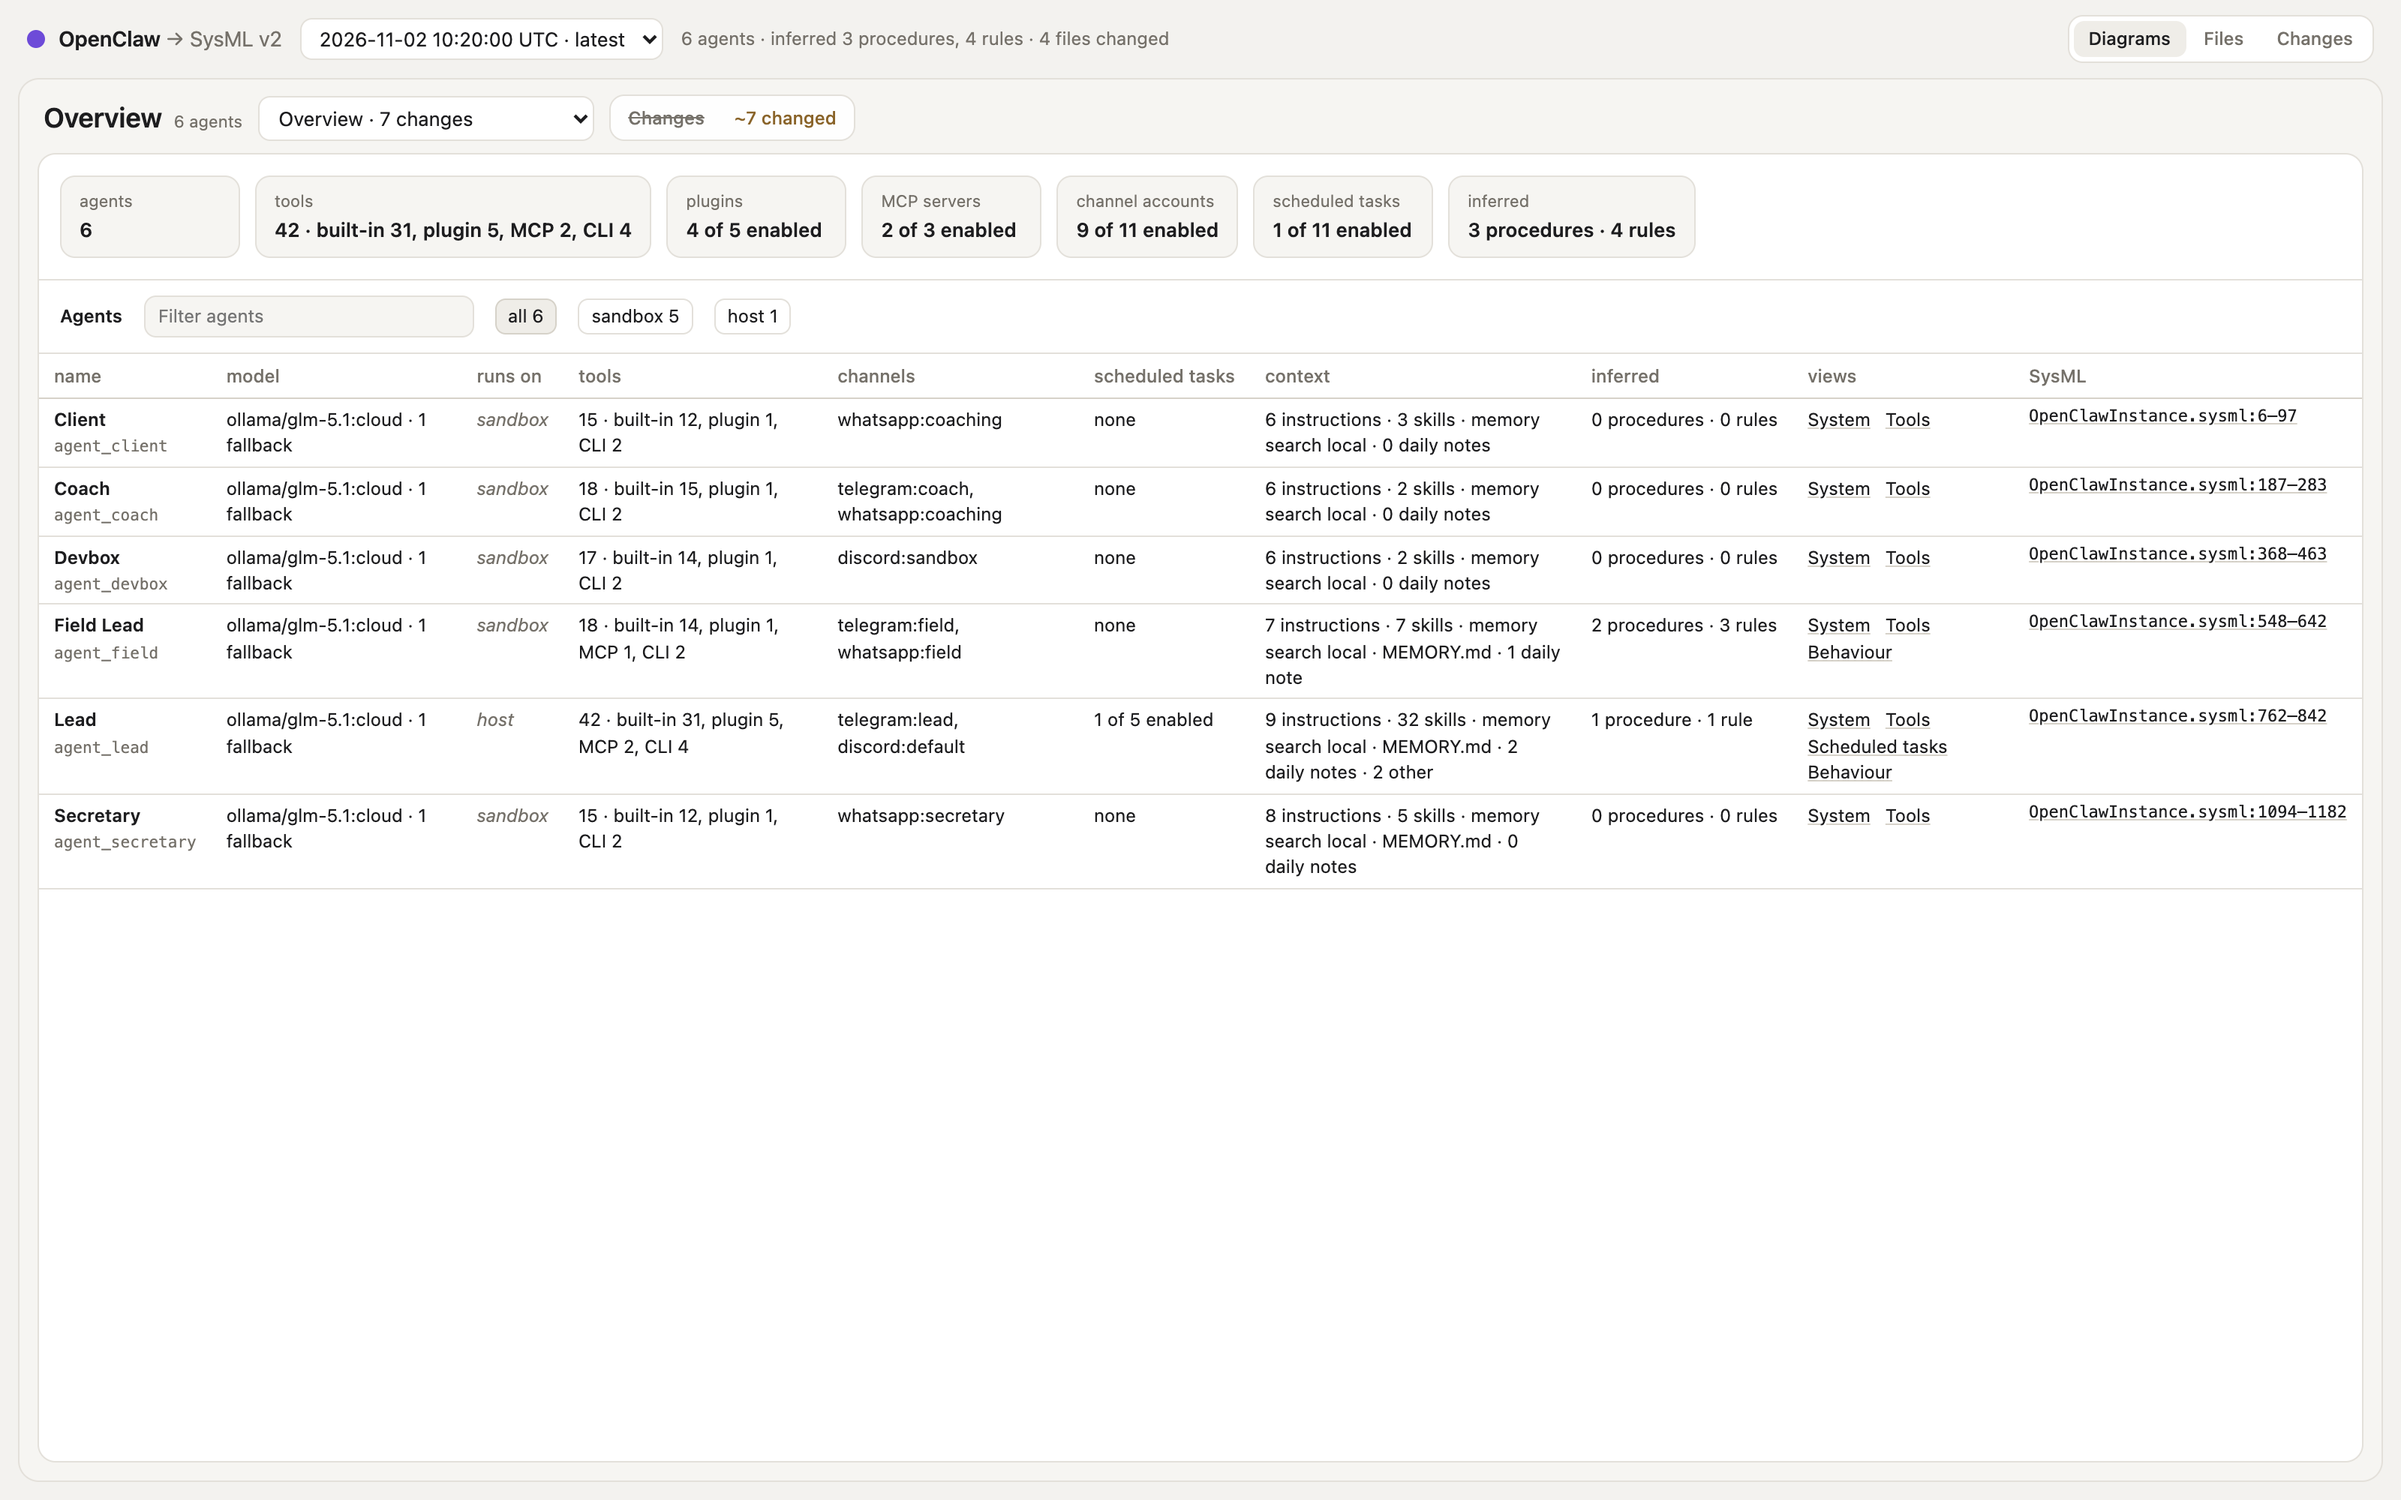
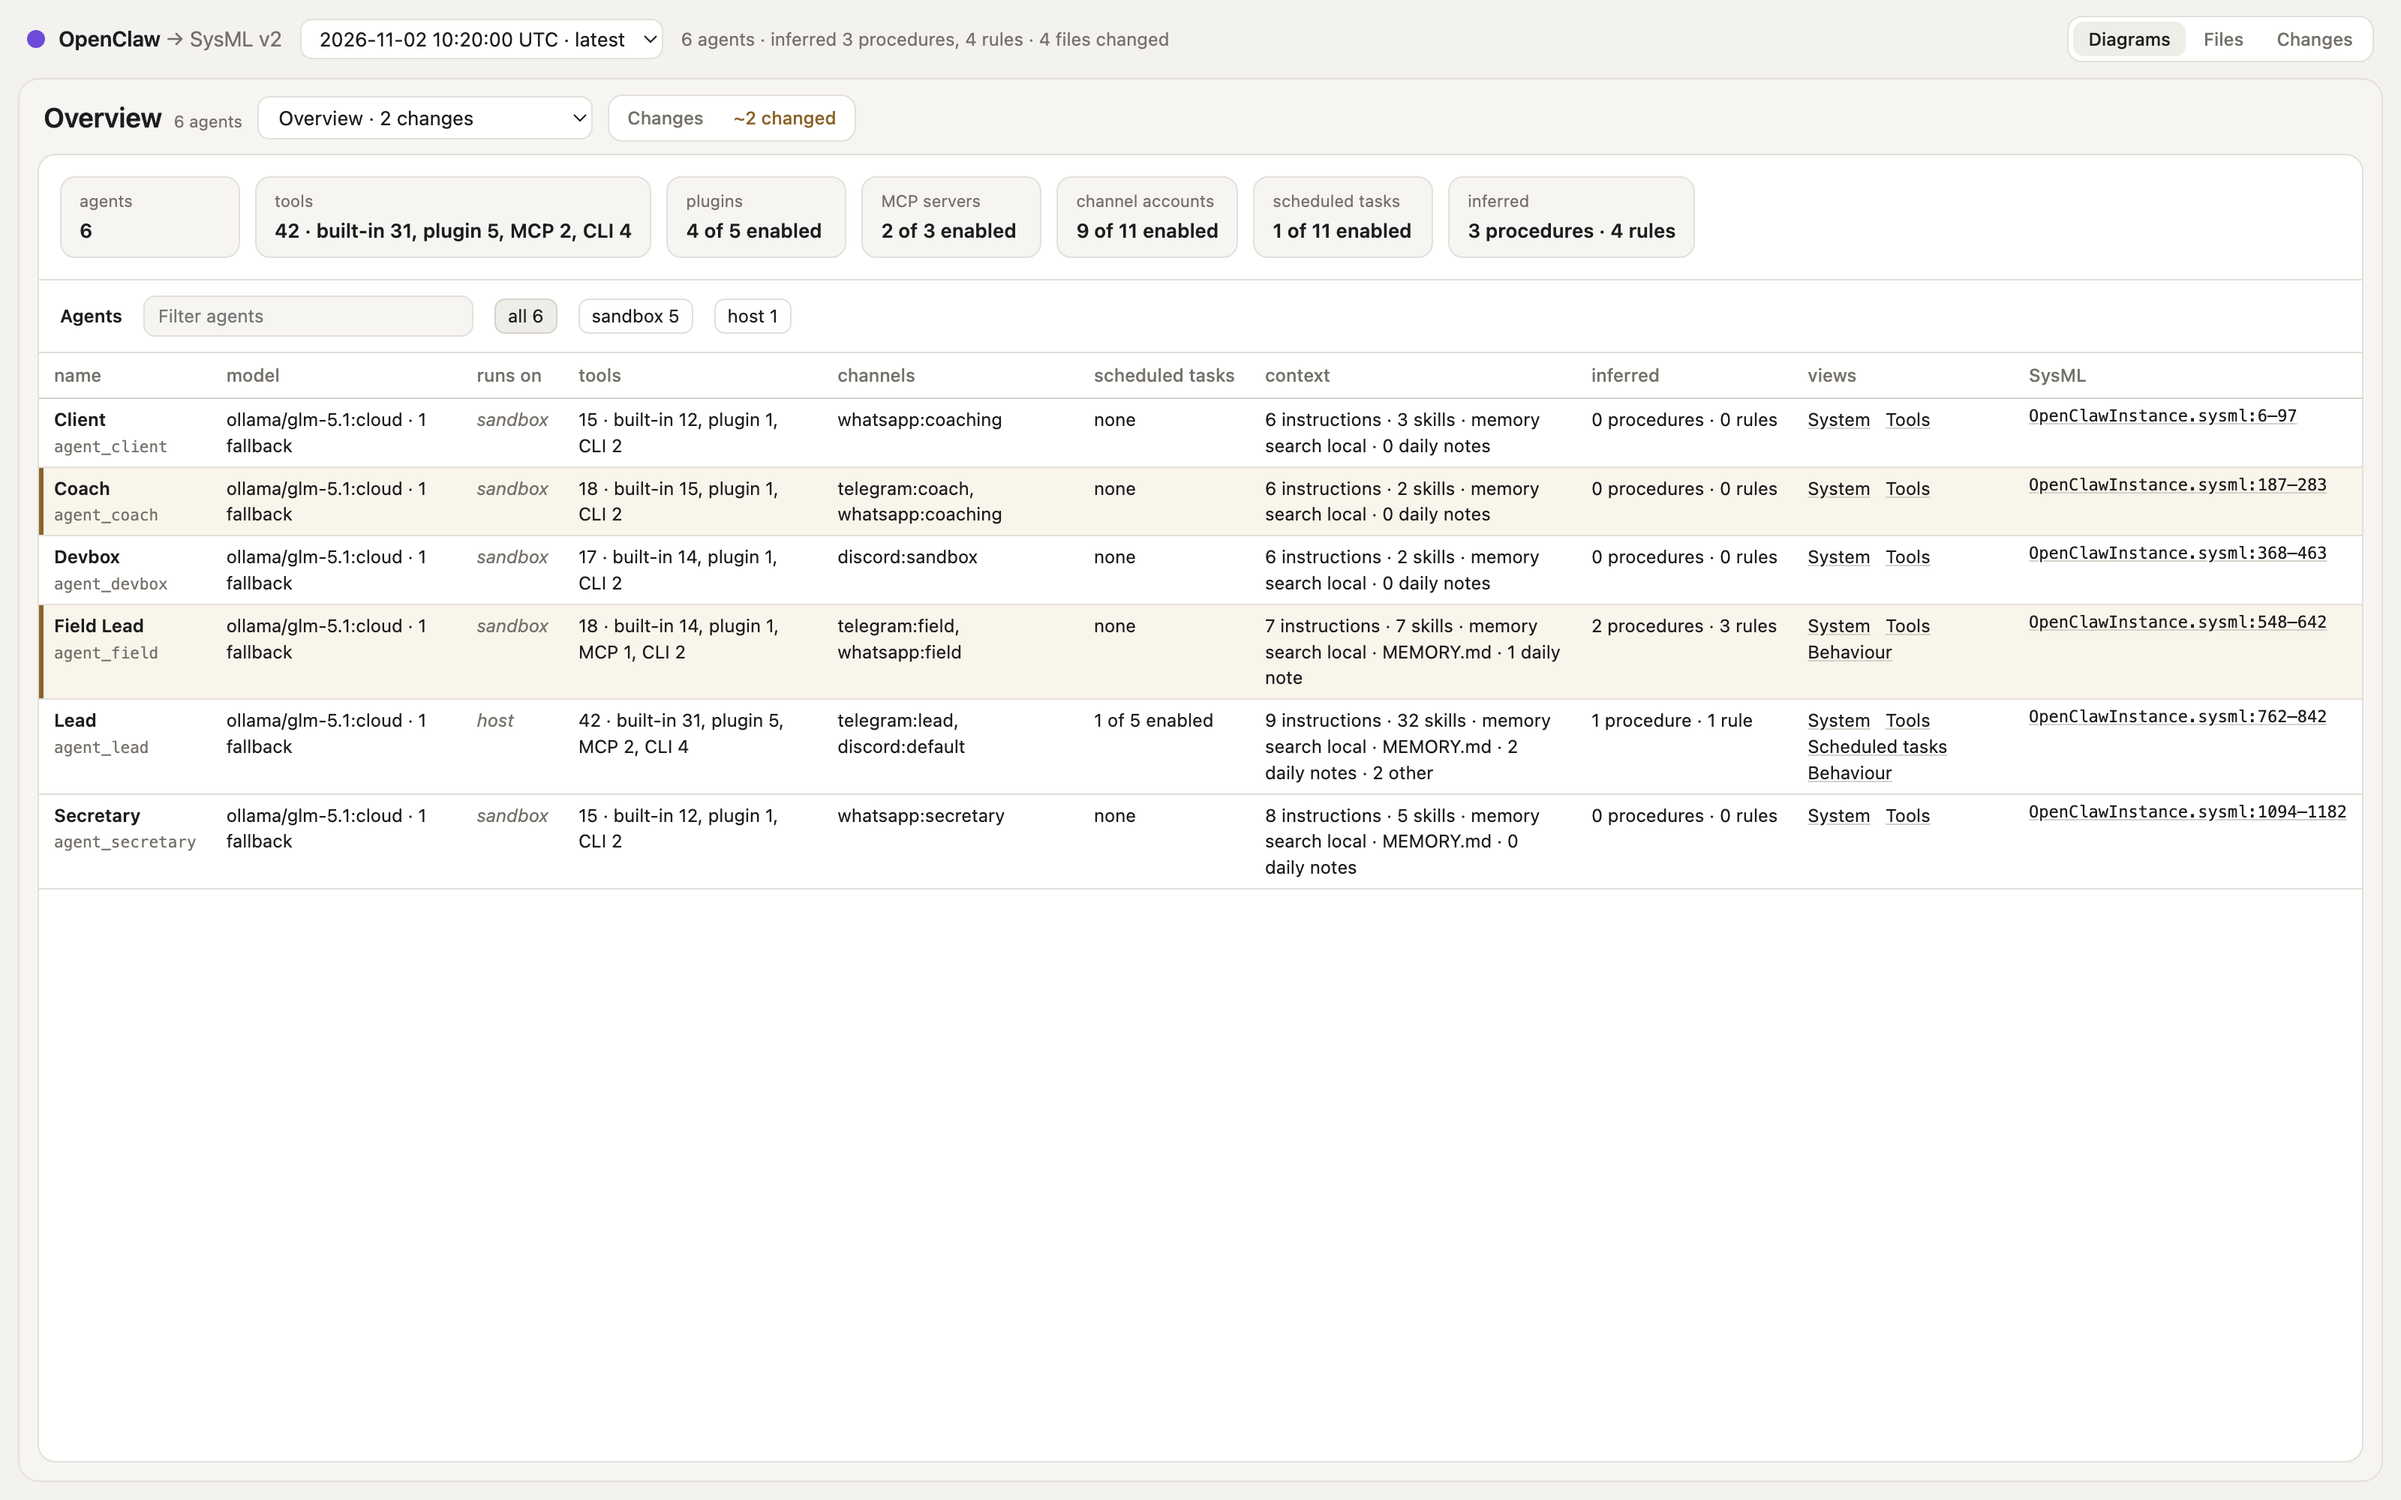
docs: note procedure rows and how Overview rows compare
SPEC §10.5 says how many procedures wrap into rows and that an Overview
row compares by the SysML it sums up; the CHANGELOG mentions the rows.
The Overview screenshot now shows the fixture's two changed agents.

diff --git a/SPEC.md b/SPEC.md
@@ -677,12 +677,14 @@ shows the unified diff of each file since the previous version.
   opens them under Files.
 - **Layout at export time.** `elkjs` 0.9.3 (pinned, layered algorithm,
   deterministic options) places System, Scheduled tasks and Behaviour's
-  procedures. Text is measured with Helvetica's metrics, the font the diagrams
-  use (or its metric twins Arial and Liberation Sans); rows that do not fit end
-  with an ellipsis, and the page squeezes any text that still overflows. Tables
-  are shaped at export time too: rows in order with their headers, matrix cells
-  by row and column. The page draws SVG and renders HTML tables, with sorting, a
-  filter and folding but no layout.
+  procedures; many procedures go into as many even rows (ELK partitions, the
+  parties below) as make the view show largest on a 16:9 screen. Text is
+  measured with Helvetica's metrics, the font the diagrams use (or its metric
+  twins Arial and Liberation Sans); rows that do not fit end with an ellipsis,
+  and the page squeezes any text that still overflows. Tables are shaped at
+  export time too: rows in order with their headers, matrix cells by row and
+  column. The page draws SVG and renders HTML tables, with sorting, a filter and
+  folding but no layout.
 - **Tables.** A view lists the elements it shows as a table instead of drawing
   them (a matrix's columns, rows and cells; an element table's rows with some
   attributes as columns, filtered by a facet such as a rule's kind or where an
@@ -695,9 +697,10 @@ shows the unified diff of each file since the previous version.
   and longer schedules are listed as not weekly.
 - **Changes.** Against the previous version, an element is added when its id is
   new, changed when its attributes or SysML text differ (frames by their
-  attributes), removed when it is gone; table rows, columns and cells count as
-  elements, so a new grant is a new cell and marks its tool's row as changed. A
-  view the previous version lacked is new.
+  attributes; an Overview row, which sums declarations up, by their SysML only,
+  so a new inference does not mark it), removed when it is gone; table rows,
+  columns and cells count as elements, so a new grant is a new cell and marks
+  its tool's row as changed. A view the previous version lacked is new.
 - **Unreadable snapshots.** A version whose snapshot fails this viewer's schema
   check keeps its files and diffs, without diagrams.
 - **Determinism and size.** Same versions, same bytes. File texts and view

diff --git a/CHANGELOG.md b/CHANGELOG.md
@@ -17,7 +17,8 @@ are unchanged.
   SysML.
 - **Rules as a requirements table.** A Behaviour view keeps its procedures as
   action flows and lists its rules under them: name, kind, text and source,
-  sortable and filtered by kind, each linked to its SysML lines.
+  sortable and filtered by kind, each linked to its SysML lines. Many procedures
+  wrap into rows instead of one wide row.
 - **A week of scheduled tasks.** Under the Scheduled tasks diagram, a 7 × 24
   hour strip per task shows when each cron schedule fires, in its own time zone,
   and the intervals that run all week; one-shot and date-bound schedules are
